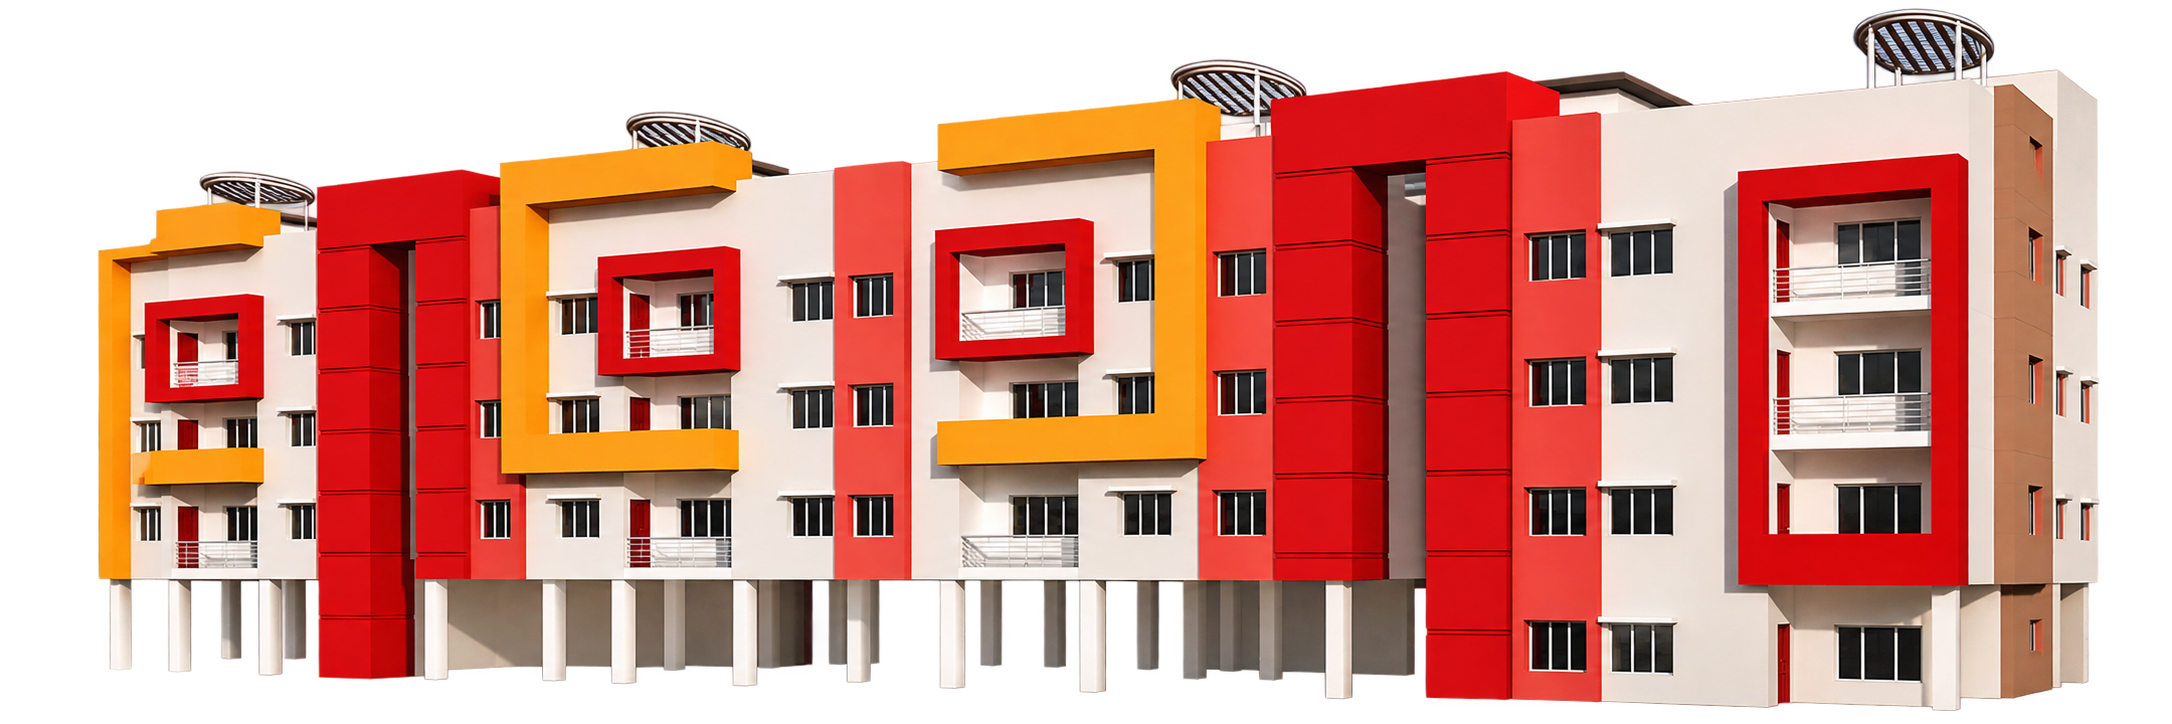
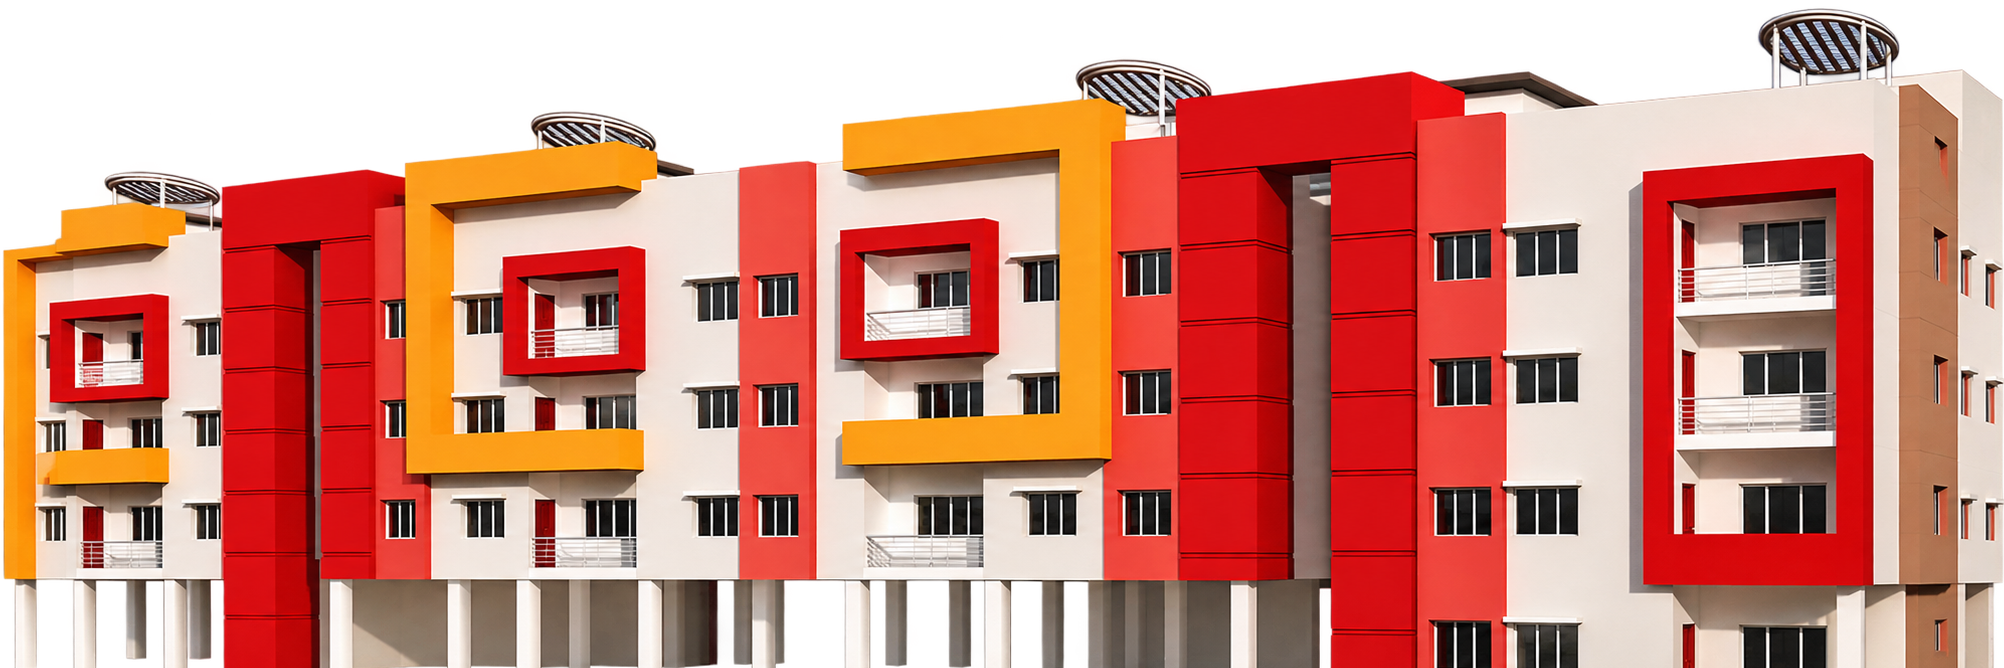
images updated

diff --git a/components/about/AboutLeadership.css b/components/about/AboutLeadership.css
@@ -948,73 +948,133 @@ body.rtl .elementor-49 .elementor-element.elementor-element-45827df {
 }
 
 /* ==========================================================
-   ABOUT LEADERSHIP: UNIQUE PNG ON EACH CARD, FULLY VISIBLE
-   Works with the about-card-decoration wrapper in Card().
-   Use /png/godawari.png, /png/rainbow.png, /png/ganga.png.
+   UNIFORM CARD STRUCTURE + INDIVIDUAL FULLY VISIBLE PNG
+   Card images: godawari.png / rainbow.png / ganga.png
+   Replaces older about-card-decoration overrides.
    ========================================================== */
 .elementor-49 .elementor-element.about-leadership-card {
-  position: relative;
+  --min-height: 610px;
+  --justify-content: flex-start;
+  --gap: 22px 22px;
+  --row-gap: 22px;
+  --padding-top: 40px;
+  --padding-right: 40px;
+  --padding-bottom: 245px;
+  --padding-left: 40px;
+  position: relative !important;
+  display: flex;
+  flex-direction: column;
+  justify-content: flex-start !important;
+  align-items: stretch;
+  box-sizing: border-box;
+  min-height: 610px;
+  padding: 40px 40px 245px !important;
   overflow: hidden;
   isolation: isolate;
 }
 
+/* Normalize the content block; no text can sit in the image-only area. */
+.elementor-49 .elementor-element.about-leadership-card > .elementor-widget-heading,
+.elementor-49 .elementor-element.about-leadership-card > .elementor-element-e6bcb83,
+.elementor-49 .elementor-element.about-leadership-card > .elementor-element-595e4d0,
+.elementor-49 .elementor-element.about-leadership-card > .elementor-element-ae1db45 {
+  position: relative !important;
+  z-index: 3;
+  flex: 0 0 auto;
+  min-width: 0;
+}
+.elementor-49 .elementor-element.about-leadership-card > .elementor-element-e6bcb83,
+.elementor-49 .elementor-element.about-leadership-card > .elementor-element-595e4d0,
+.elementor-49 .elementor-element.about-leadership-card > .elementor-element-ae1db45 {
+  width: 100%;
+}
+.elementor-49 .elementor-element.about-leadership-card .elementor-widget-text-editor p {
+  margin-bottom: 0;
+}
+
+/* Identical bottom picture zone on every card. */
 .elementor-49 .elementor-element.about-leadership-card > .about-card-decoration {
   position: absolute !important;
-  inset: auto auto 0 0 !important;
-  width: min(85%, 310px);
-  height: 220px;
+  left: 0 !important;
+  right: auto !important;
+  bottom: 0 !important;
+  top: auto !important;
+  width: min(calc(100% - 65px), 320px);
+  height: 210px;
   max-width: none;
+  padding: 0 !important;
+  margin: 0 !important;
   display: flex;
   justify-content: flex-start;
   align-items: flex-end;
-  margin: 0;
-  padding: 0;
   z-index: 1;
   pointer-events: none;
 }
-
 .elementor-49 .elementor-element.about-leadership-card > .about-card-decoration img {
   display: block;
   width: 100%;
   height: 100%;
   max-width: 100%;
+  max-height: 100%;
   object-fit: contain;
   object-position: left bottom;
 }
 
-/* Titles, descriptions and links stay clickable above the illustration. */
-.elementor-49 .elementor-element.about-leadership-card > .elementor-widget-heading,
-.elementor-49 .elementor-element.about-leadership-card > .elementor-element-e6bcb83,
-.elementor-49 .elementor-element.about-leadership-card > .elementor-element-595e4d0,
-.elementor-49 .elementor-element.about-leadership-card > .elementor-element-ae1db45 {
-  position: relative;
-  z-index: 2;
-}
-
-/* Preserve the absolute bottom-right corner shape and arrow. */
+/* Keep original corner spacer and clickable arrow on top. */
 .elementor-49 .elementor-element.about-leadership-card > .elementor-element-4403892,
 .elementor-49 .elementor-element.about-leadership-card > .elementor-element-d1072fe,
 .elementor-49 .elementor-element.about-leadership-card > .elementor-element-ad73de3 {
-  position: absolute;
+  position: absolute !important;
+  right: 0 !important;
+  bottom: 0 !important;
   z-index: 4;
 }
 .elementor-49 .elementor-element.about-leadership-card > .elementor-element-285fb28,
 .elementor-49 .elementor-element.about-leadership-card > .elementor-element-2047598,
 .elementor-49 .elementor-element.about-leadership-card > .elementor-element-45827df {
-  position: absolute;
+  position: absolute !important;
+  right: 0 !important;
+  bottom: 0 !important;
   z-index: 5;
 }
 
 @media (max-width: 1024px) {
+  .elementor-49 .elementor-element.about-leadership-card {
+    --min-height: 620px;
+    --padding-top: 35px;
+    --padding-right: 20px;
+    --padding-bottom: 200px;
+    --padding-left: 20px;
+    min-height: 620px;
+    padding: 35px 20px 200px !important;
+  }
   .elementor-49 .elementor-element.about-leadership-card > .about-card-decoration {
-    width: min(82%, 250px);
-    height: 190px;
+    width: min(calc(100% - 55px), 260px);
+    height: 175px;
   }
 }
-
 @media (max-width: 767px) {
+  .elementor-49 .elementor-element.about-leadership-card {
+    --min-height: 440px;
+    --padding-top: 30px;
+    --padding-right: 25px;
+    --padding-bottom: 195px;
+    --padding-left: 25px;
+    min-height: 440px;
+    padding: 30px 25px 195px !important;
+  }
   .elementor-49 .elementor-element.about-leadership-card > .about-card-decoration {
-    width: min(65%, 220px);
-    height: 170px;
+    width: min(calc(100% - 65px), 270px);
+    height: 165px;
+  }
+}
+@media (max-width: 480px) {
+  .elementor-49 .elementor-element.about-leadership-card {
+    --padding-bottom: 180px;
+    padding-bottom: 180px !important;
+  }
+  .elementor-49 .elementor-element.about-leadership-card > .about-card-decoration {
+    height: 150px;
+    max-width: 235px;
   }
 }
